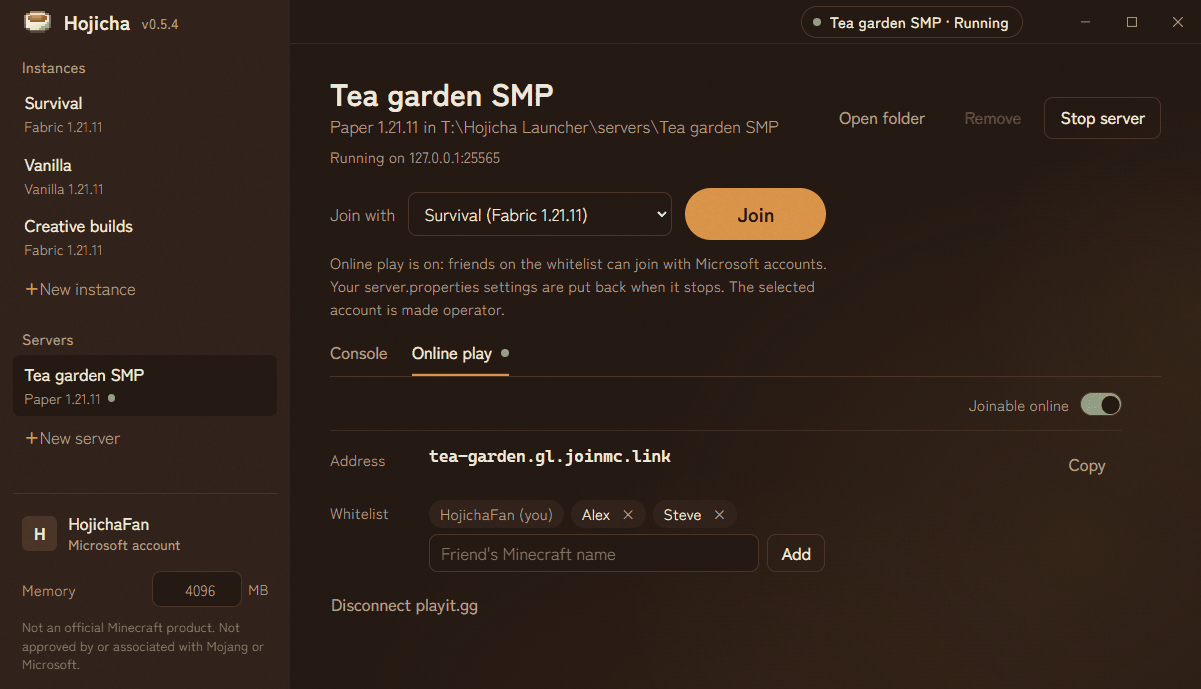
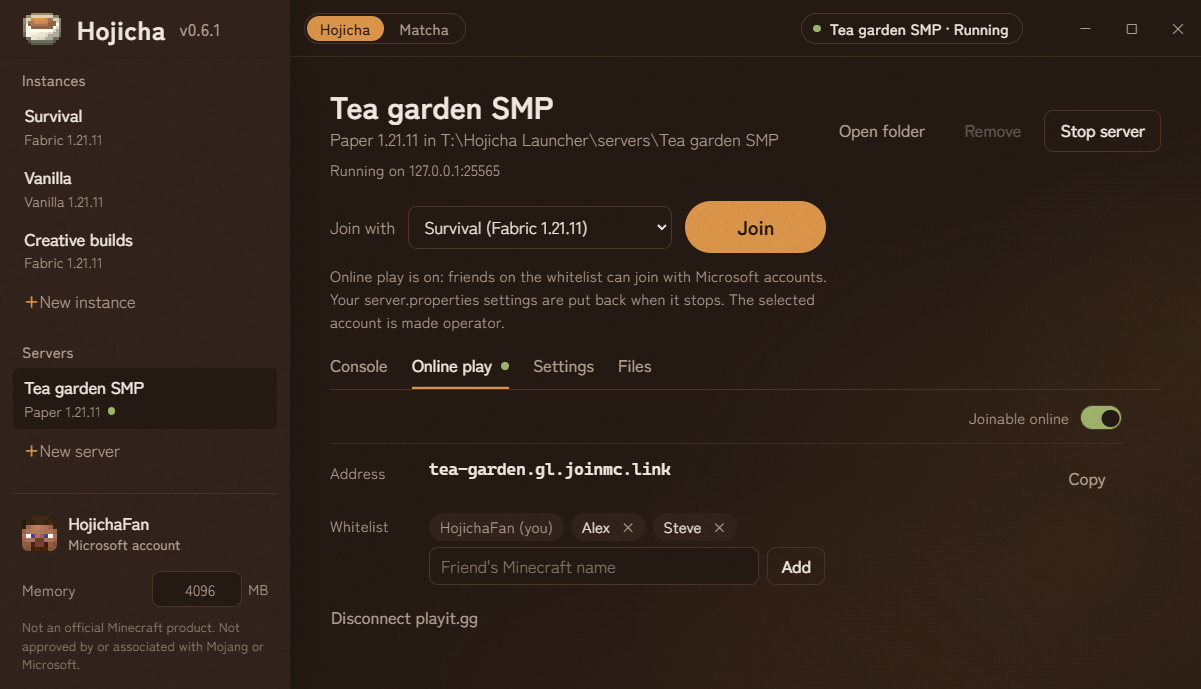
New README screenshots for 0.6.1, with the Matcha theme
Re-rendered from the real UI with sample data: the larger title bar, the
Hojicha | Matcha switch, the Settings and Files server tabs, a skin face on
the account, and a new screenshot of the Matcha theme under the gallery.
Saved as full-colour PNGs: 256 colours lost the mod icons' colours and banded
the soft light in the corner.

diff --git a/README.md b/README.md
@@ -11,7 +11,7 @@
 
 > **NOT AN OFFICIAL MINECRAFT PRODUCT. NOT APPROVED BY OR ASSOCIATED WITH MOJANG OR MICROSOFT.**
 
-![Hojicha Launcher showing a Fabric instance with its mods, play time and last played](docs/screenshot-mods.png)
+![Hojicha Launcher in the dark Hojicha theme, showing a Fabric instance with its mods, play time and last played](docs/screenshot-mods.png)
 
 ## Features
 
@@ -39,6 +39,8 @@
 | ![Modrinth browser with install buttons](docs/screenshot-browse.png) | ![A running server with its address and whitelist](docs/screenshot-server.png) |
 | **New server** | **Accounts** |
 | ![New server dialog with Paper, Purpur and Fabric](docs/screenshot-new-server.png) | ![Accounts dialog](docs/screenshot-accounts.png) |
+
+![The light Matcha theme: the same launcher in whisked matcha greens, switched from the title bar](docs/screenshot-matcha.png)
 
 ## Accounts and privacy
 
